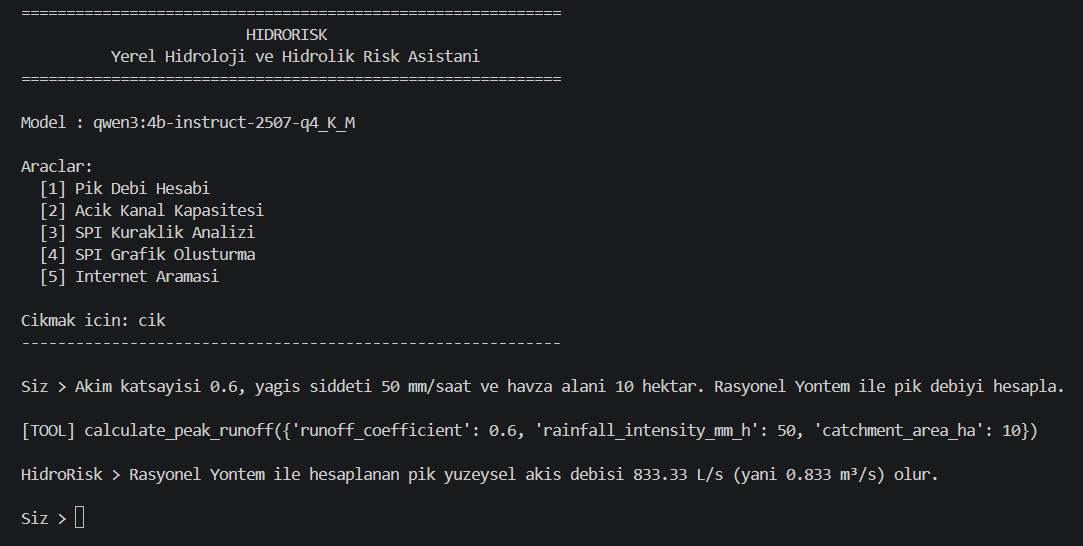
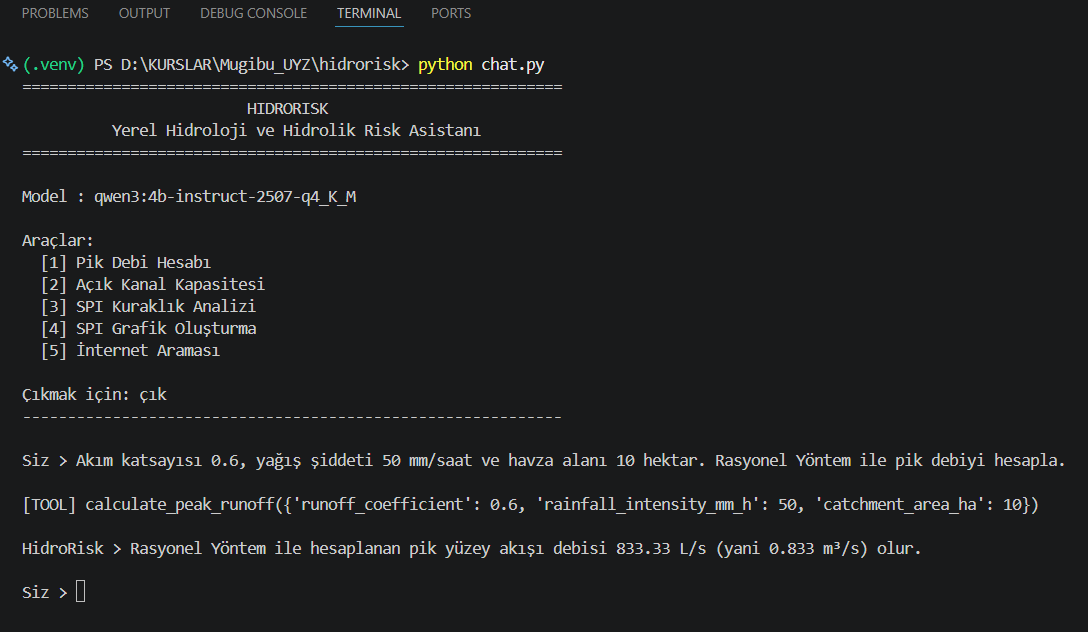
Turkce arayuz ve internet aramasi duzenlemeleri

diff --git a/chat.py b/chat.py
@@ -1,11 +1,11 @@
-"""Arac cagirabilen HidroRisk asistani (komut satiri).
+"""Araç çağırabilen HidroRisk asistanı (komut satırı).
 
-Dongu cok basit:
-kullanici sorar -> model ya cevap verir ya da bir arac cagirir
--> araci biz calistirir, sonucu modele geri veririz
--> model nihai cevabi yazar
+Döngü çok basit:
+kullanıcı sorar -> model ya cevap verir ya da bir araç çağırır
+-> aracı biz çalıştırır, sonucu modele geri veririz
+-> model nihai cevabı yazar
 
-Kullanim:
+Kullanım:
 python chat.py
 """
 
@@ -15,56 +15,58 @@ import ollama_client
 import tools
 
 
-MAX_TOOL_ROUNDS = 5  # sonsuz arac dongusune karsi emniyet freni
+MAX_TOOL_ROUNDS = 5  # sonsuz araç döngüsüne karşı emniyet freni
 
 
-SYSTEM_PROMPT = """Sen HidroRisk adinda Turkce konusan bir hidroloji ve hidrolik on degerlendirme asistanisin.
+SYSTEM_PROMPT = """Sen HidroRisk adında Türkçe konuşan bir hidroloji ve hidrolik ön değerlendirme asistanısın.
 
-Elinde 4 arac var:
+Elinde 5 araç var:
 
-- calculate_peak_runoff: Rasyonel Yontem ile pik yuzeysel akis debisini hesaplar.
+- calculate_peak_runoff: Rasyonel Yöntem ile pik yüzeysel akış debisini hesaplar.
 
-- check_channel_capacity: Manning denklemi ile dikdortgen acik kanal kapasitesini hesaplar ve verilen tasarim debisine gore yeterliligini kontrol eder.
+- check_channel_capacity: Manning denklemi ile dikdörtgen açık kanal kapasitesini hesaplar ve verilen tasarım debisine göre yeterliliğini kontrol eder.
 
-- calculate_spi: Aylik yagis verisi iceren CSV dosyasindan secilen zaman olceginde Standartlastirilmis Yagis Indisi (SPI) hesaplar.
+- calculate_spi: Aylık yağış verisi içeren CSV dosyasından seçilen zaman ölçeğinde Standartlaştırılmış Yağış İndisi (SPI) hesaplar.
 
-- plot_spi_series: Aylik yagis verisi iceren CSV dosyasindan secilen zaman olceginde SPI zaman serisi grafigi olusturur ve PNG dosyasi olarak kaydeder.
+- plot_spi_series: Aylık yağış verisi içeren CSV dosyasından seçilen zaman ölçeğinde SPI zaman serisi grafiği oluşturur ve PNG dosyası olarak kaydeder.
 
-- internet_search: Guncel bilgi, standart, mevzuat veya genel bilgi icin internette arama yapar.
+- internet_search: Güncel bilgi, standart, mevzuat veya genel bilgi için internette arama yapar.
 
 KURALLAR:
 
-- Sayisal bir hidroloji veya hidrolik hesabi icin uygun arac varsa hesabi kendin tahmin etme, ilgili araci kullan.
+- Sayısal bir hidroloji veya hidrolik hesabı için uygun araç varsa hesabı kendin tahmin etme, ilgili aracı kullan.
 
-- Hesap icin gerekli bir parametre eksikse deger uydurma. Kullanicidan eksik bilgiyi iste.
+- Hesap için gerekli bir parametre eksikse değer uydurma. Kullanıcıdan eksik bilgiyi iste.
 
-- Manning n katsayisi, kanal egimi, yagis siddeti, akim katsayisi gibi muhendislik girdilerini kullanici vermediyse kendin secme.
+- Manning n katsayısı, kanal eğimi, yağış şiddeti, akım katsayısı gibi mühendislik girdilerini kullanıcı vermediyse kendin seçme.
 
-- Bir yagis serisinin kurak veya nemli oldugunu soylemeden once SPI hesabi gerekiyorsa calculate_spi aracini kullan.
+- Bir yağış serisinin kurak veya nemli olduğunu söylemeden önce SPI hesabı gerekiyorsa calculate_spi aracını kullan.
 
-- Aracin dondurdugu sayisal sonucu esas al ve sonucu degistirme.
+- Aracın döndürdüğü sayısal sonucu esas al ve sonucu değiştirme.
 
-- Guncel veya dis kaynaktan dogrulanmasi gereken bilgiler icin internet_search aracini kullan.
+- Güncel veya dış kaynaktan doğrulanması gereken bilgiler için internet_search aracını kullan.
 
-- Selamlasma, sohbet ve kavramsal sorular icin arac cagirmana gerek yok.
+- Selamlaşma, sohbet ve kavramsal sorular için araç çağırmana gerek yok.
 
-- Kanal yeterliligi sorularinda arac sonucu YETERLI ise cevaba "Evet", YETERSIZ ise "Hayir" diye basla. Sonucla celisen bir ifade kullanma.
+- Kanal yeterliliği sorularında araç sonucu YETERLI ise cevaba "Evet", YETERSIZ ise "Hayır" diye başla. Sonuçla çelişen bir ifade kullanma.
 
-- Arac sonucundaki teknik terimleri anlamlarini degistirecek sekilde yeniden adlandirma. Ornegin "uniform akis" ifadesini aynen koru.
+- Araç sonucundaki teknik terimleri anlamlarını değiştirecek şekilde yeniden adlandırma. Örneğin "uniform akis" ifadesini aynen koru.
 
-- SPI sonucunu yorumlarken yalnizca toolun belirttigi son tarihteki sinifi soyle. Tum veri serisinin genel olarak kurak, nemli, normal veya dengeli oldugunu soyleme ve gelecege yonelik devam edecegi anlamina gelen yorum yapma.
+- SPI sonucunu yorumlarken yalnızca toolun belirttiği son tarihteki sınıfı söyle. Tüm veri serisinin genel olarak kurak, nemli, normal veya dengeli olduğunu söyleme ve geleceğe yönelik devam edeceği anlamına gelen yorum yapma.
 
-- Kullanici SPI grafigi, cizim, plot veya gorsellestirme isterse plot_spi_series aracini kullan. Grafik veya cizim sonucu olusturuldugunda dosya yolunu kullaniciya bildir.
+- Kullanıcı SPI grafiği, çizim, plot veya görselleştirme isterse plot_spi_series aracını kullan. Grafik veya çizim sonucu oluşturulduğunda dosya yolunu kullanıcıya bildir.
 
-- Kullanici internet_search icin belirli bir sonuc sayisi isterse max_results degerini ayni sayi olarak kullan.
+- Kullanıcı internet_search için belirli bir sonuç sayısı isterse max_results değerini aynı sayı olarak kullan.
 
-- internet_search aracinin dondurdugu kaynak basliklarini ve URL'leri aynen kullan. Basliklari yeniden adlandirma, URL'leri degistirme veya arac sonucunda bulunmayan kaynak ekleme.
+- internet_search aracının döndürdüğü kaynak başlıklarını ve URL'leri aynen kullan. Başlıkları yeniden adlandırma, URL'leri değiştirme veya araç sonucunda bulunmayan kaynak ekleme.
 
-- internet_search araci yalnizca baslik ve URL donduruyorsa kaynaklarin icerigi hakkinda ek aciklama uretme. Yalnizca arac sonucunda gercekten bulunan bilgileri aktar.
+- internet_search aracı yalnızca başlık ve URL döndürüyorsa kaynakların içeriği hakkında ek açıklama üretme. Yalnızca araç sonucunda gerçekten bulunan bilgileri aktar.
 
-- Herhangi bir arac cagrildiktan sonra nihai cevabi arac sonucuna dayandir. Aracin dondurmedigi sayisal deger, kaynak, URL veya teknik sonuc ekleme.
+- internet_search aracı kullanıldıysa nihai cevapta yalnızca aracın döndürdüğü kaynakları numaralı liste halinde başlık ve URL ile ver. Kaynak listesinden önce veya sonra açıklama, özet, yorum, çıkarım ya da sonuç cümlesi ekleme.
 
-- HidroRisk bir on degerlendirme asistanidir; sonuclari nihai muhendislik projesi veya resmi onay olarak sunma.
+- Herhangi bir araç çağrıldıktan sonra nihai cevabı araç sonucuna dayandır. Aracın döndürmediği sayısal değer, kaynak, URL veya teknik sonuç ekleme.
+
+- HidroRisk bir ön değerlendirme asistanıdır; sonuçları nihai mühendislik projesi veya resmi onay olarak sunma.
 """
 
 
@@ -115,19 +117,19 @@ def run_tool_calls(tool_calls: list[dict]) -> list[dict]:
 
 print("=" * 60)
 print("                         HIDRORISK")
-print("          Yerel Hidroloji ve Hidrolik Risk Asistani")
+print("          Yerel Hidroloji ve Hidrolik Risk Asistanı")
 print("=" * 60)
 print()
 print(f"Model : {args.chat_model}")
 print()
-print("Araclar:")
-print("  [1] Pik Debi Hesabi")
-print("  [2] Acik Kanal Kapasitesi")
-print("  [3] SPI Kuraklik Analizi")
-print("  [4] SPI Grafik Olusturma")
-print("  [5] Internet Aramasi")
+print("Araçlar:")
+print("  [1] Pik Debi Hesabı")
+print("  [2] Açık Kanal Kapasitesi")
+print("  [3] SPI Kuraklık Analizi")
+print("  [4] SPI Grafik Oluşturma")
+print("  [5] İnternet Araması")
 print()
-print("Cikmak icin: cik")
+print("Çıkmak için: çık")
 print("-" * 60)
 print()
 

diff --git a/README.md b/README.md
@@ -120,21 +120,22 @@ python chat.py
 Program açıldığında aşağıdaki gibi bir ekran görülür:
 
 ```text
+
 ============================================================
                          HIDRORISK
-          Yerel Hidroloji ve Hidrolik Risk Asistani
+          Yerel Hidroloji ve Hidrolik Risk Asistanı
 ============================================================
 
 Model : qwen3:4b-instruct-2507-q4_K_M
 
-Araclar:
-  [1] Pik Debi Hesabi
-  [2] Acik Kanal Kapasitesi
-  [3] SPI Kuraklik Analizi
-  [4] SPI Grafik Olusturma
-  [5] Internet Aramasi
+Araçlar:
+  [1] Pik Debi Hesabı
+  [2] Açık Kanal Kapasitesi
+  [3] SPI Kuraklık Analizi
+  [4] SPI Grafik Oluşturma
+  [5] İnternet Araması
 
-Cikmak icin: cik
+Çıkmak için: çık
 ------------------------------------------------------------
 ```
 
@@ -149,13 +150,13 @@ Cikmak icin: cik
 Kullanıcı:
 
 ```text
-Manning denklemi ne icin kullanilir? Kisa cevap ver.
+Manning denklemi ne için kullanılır? Kısa cevap ver.
 ```
 
 Asistan:
 
 ```text
-Manning denklemi, acik kanallarda akis hizi ve debinin hesaplanmasinda kullanilir.
+Manning denklemi, açık kanallarda akış hızı ve debinin hesaplanmasında kullanılır.
 ```
 
 #### 2) Pik Debi Hesabı (Rasyonel Yöntem)
@@ -163,7 +164,7 @@ Manning denklemi, acik kanallarda akis hizi ve debinin hesaplanmasinda kullanili
 Kullanıcı:
 
 ```text
-Akim katsayisi 0.6, yagis siddeti 50 mm/saat ve havza alani 10 hektar. Rasyonel Yontem ile pik debiyi hesapla.
+Akım katsayısı 0.6, yağış şiddeti 50 mm/saat ve havza alanı 10 hektar. Rasyonel Yöntem ile pik debiyi hesapla.
 ```
 
 Tool çağrısı:
@@ -175,7 +176,7 @@ Tool çağrısı:
 Asistan:
 
 ```text
-Rasyonel Yontem ile hesaplanan pik debi 0.8333 m3/s (833.33 L/s) olarak bulundu.
+Rasyonel Yöntem ile hesaplanan pik debi 0.8333 m³/s (833.33 L/s) olarak bulundu.
 ```
 
 #### 3) Açık Kanal Kapasite Kontrolü
@@ -183,7 +184,7 @@ Rasyonel Yontem ile hesaplanan pik debi 0.8333 m3/s (833.33 L/s) olarak bulundu.
 Kullanıcı:
 
 ```text
-Tasarim debisi 2 m3/s olan dikdortgen bir kanalin genisligi 2 m, su derinligi 1 m, Manning n katsayisi 0.015 ve taban egimi 0.001. Kanal bu debiyi tasiyabilir mi?
+Tasarım debisi 2 m³/s olan dikdörtgen bir kanalın genişliği 2 m, su derinliği 1 m, Manning n katsayısı 0.015 ve taban eğimi 0.001. Kanal bu debiyi taşıyabilir mi?
 ```
 
 Tool çağrısı:
@@ -195,14 +196,14 @@ Tool çağrısı:
 Asistan:
 
 ```text
-Evet. Kanal kapasitesi 2.656 m3/s olarak hesaplandi. Tasarim debisi 2.000 m3/s oldugu icin kanal verilen hesap kosullarinda YETERLI.
+Evet. Kanal kapasitesi 2.656 m³/s olarak hesaplandı. Tasarım debisi 2.000 m³/s olduğu için kanal verilen hesap koşullarında YETERLİ.
 ```
 #### Multi-turn örneği
 
 Kullanıcı:
 
 ```text
-Peki tasarim debisi 3 m3/s olsaydi?
+Peki tasarım debisi 3 m3/s olsaydı?
 ```
 
 Tool çağrısı:
@@ -214,7 +215,7 @@ Tool çağrısı:
 Asistan:
 
 ```text
-Hayir. Kanal kapasitesi 2.656 m3/s oldugu icin 3.000 m3/s tasarim debisini karsilayamiyor. Sonuc: YETERSIZ.
+Hayır. Kanal kapasitesi 2.656 m³/s olduğu için 3.000 m³/s tasarım debisini karşılayamıyor. Sonuç: YETERSİZ.
 ```
 
 #### 4) SPI Hesabı ve Grafik Oluşturma
@@ -222,7 +223,7 @@ Hayir. Kanal kapasitesi 2.656 m3/s oldugu icin 3.000 m3/s tasarim debisini karsi
 Kullanıcı:
 
 ```text
-data/yagis_ornek.csv dosyasi icin SPI-12 hesapla ve grafigini olustur.
+data/yagis_ornek.csv dosyası için SPI-12 hesapla ve grafiğini oluştur.
 ```
 
 Tool çağrıları:
@@ -236,16 +237,16 @@ Tool çağrıları:
 Asistan:
 
 ```text
-Yagis verisi icin SPI-12 hesabi tamamlandi ve grafigi olusturuldu.
+Yağış verisi için SPI-12 hesabı tamamlandı ve grafiği oluşturuldu.
 
 - Son tarih: 2020-12
-- Son SPI-12 degeri: 0.187
-- SPI-12 sinifi: normale yakin
-- Yorum: Bu SPI-12 sinifi yalnizca 2020-12 donemini temsil eder; tum veri serisinin genel durumunu temsil etmez.
+- Son SPI-12 değeri: 0.187
+- SPI-12 sınıfı: normale yakın
+- Yorum: Bu SPI-12 sınıfı yalnızca 2020-12 dönemini temsil eder; tüm veri serisinin genel durumunu temsil etmez.
 
 Grafik ve hesap sonucunu destekleyen dosyalar:
-- SPI-12 hesap sonucu dosyasi
-- SPI-12 zaman serisi grafigi
+- SPI-12 hesap sonucu dosyası
+- SPI-12 zaman serisi grafiği
 ```
 
 #### Örnek SPI Grafiği
@@ -257,25 +258,25 @@ Grafik ve hesap sonucunu destekleyen dosyalar:
 Kullanıcı:
 
 ```text
-Internetten DSI'nin taskin yonetimiyle ilgili 3 kaynak bul.
+İnternetten DSİ'nin taşkın yönetimiyle ilgili 3 kaynak bul.
 ```
 
 Tool çağrısı:
 
 ```text
-[TOOL] internet_search({'query': "DSI'nin taskin yonetimi", 'max_results': 3})
+[TOOL] internet_search({'query': "DSİ'nin taşkın yönetimi", 'max_results': 3})
 ```
 
 Asistan:
 
 ```text
-1. Devlet Su Isleri Genel Mudurlugu - DSI
+1. Devlet Su İşleri Genel Müdürlüğü - DSİ
    https://dsi.gov.tr/Sayfa/Detay/1872
 
-2. Devlet Su Isleri Genel Mudurlugu - DSI
+2. Devlet Su İşleri Genel Müdürlüğü - DSİ
    https://dsi.gov.tr/Sayfa/Detay/1870
 
-3. Devlet Su Isleri Teknik Arastirma ve Kalite Kontrol Dairesi Baskanligi
+3. Devlet Su İşleri Teknik Araştırma ve Kalite Kontrol Dairesi Başkanlığı
    https://takk.dsi.gov.tr/
 ```
 
